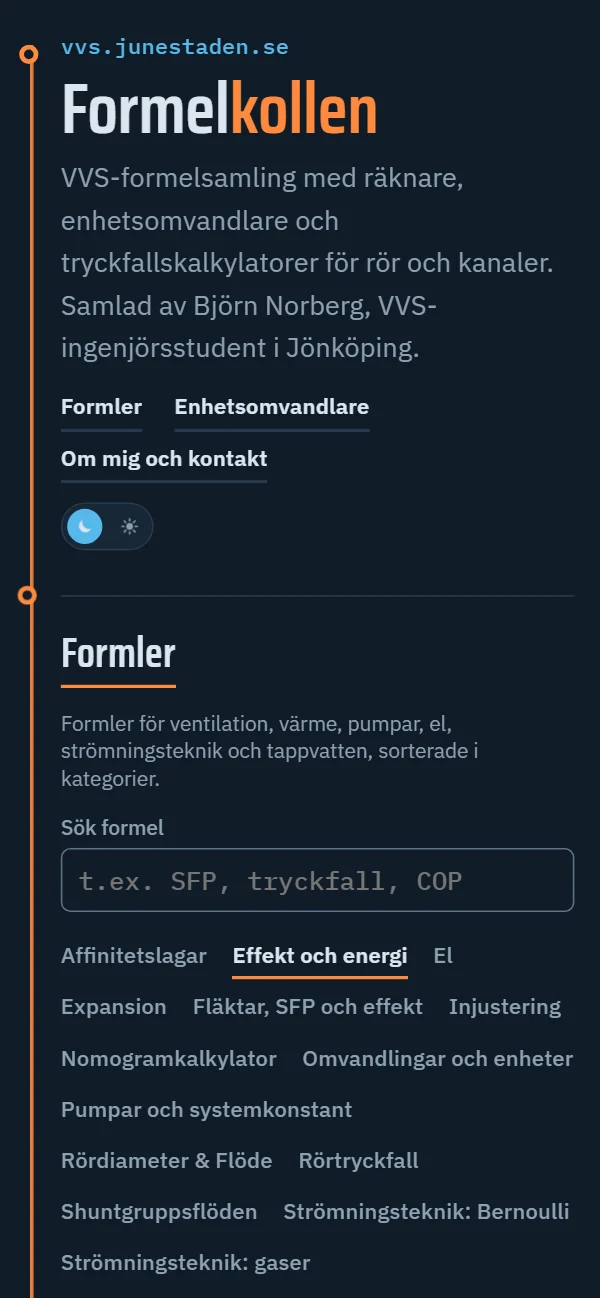
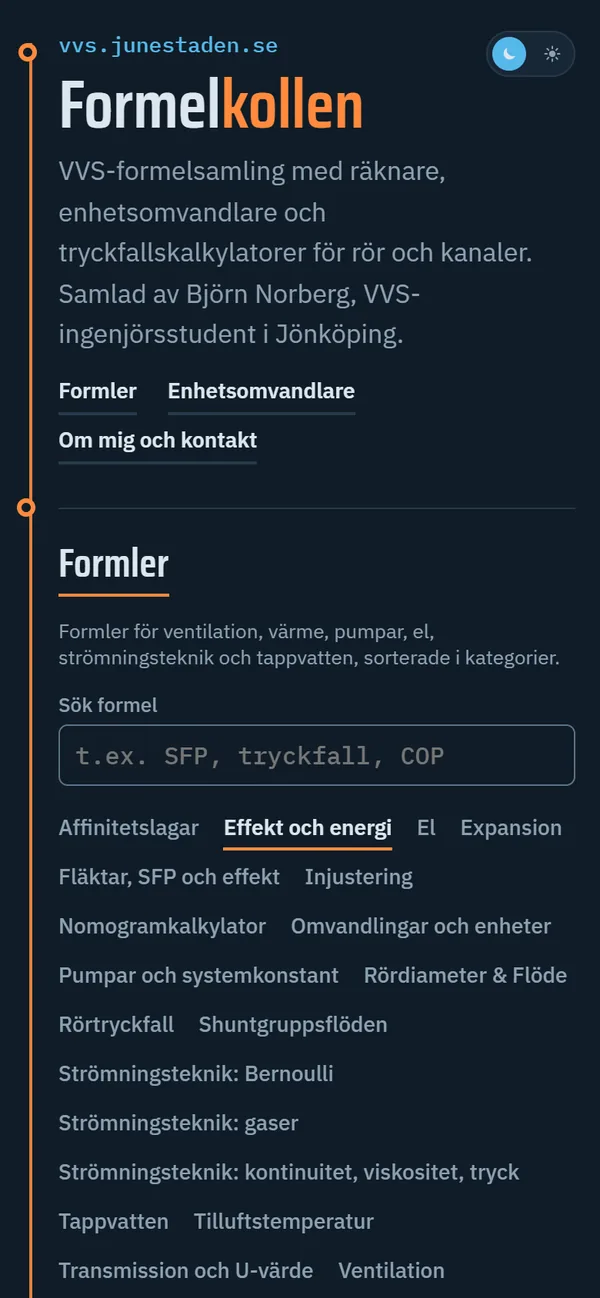
Bara mörkt läge, ny Formelkollen-bild och delningsbild

diff --git a/public/index.html b/public/index.html
@@ -18,7 +18,7 @@
 <meta property="og:url" content="https://junestaden.se/">
 <meta property="og:title" content="Junestaden – webbverktyg för bygg och vardag">
 <meta property="og:description" content="EPAkollen, Formelkollen och Mängdkollen – gratis webbverktyg för EPA-resor, VVS-formler och materialåtgång. Utan inloggning, i mobilen och på datorn.">
-<meta property="og:image" content="https://junestaden.se/img/og.jpg?v=3">
+<meta property="og:image" content="https://junestaden.se/img/og.jpg?v=4">
 <meta property="og:image:width" content="1200">
 <meta property="og:image:height" content="630">
 <meta name="twitter:card" content="summary_large_image">
@@ -105,20 +105,8 @@
   --shadow-hover: 0 2px 4px rgba(0,0,0,.4), 0 30px 60px -20px rgba(0,0,0,.8);
   --serif: "Instrument Serif", Georgia, serif;
   --sans: "Inter", system-ui, -apple-system, "Segoe UI", sans-serif;
+  /* Sidan är alltid mörk, oavsett systemets ljusa/mörka läge */
   color-scheme: dark;
-}
-@media (prefers-color-scheme: light) {
-  :root {
-    --bg: #f5f3ee;
-    --bg-2: #ebe8e1;
-    --line: #e2ded5;
-    --fg: #16181d;
-    --muted: #5e6470;
-    --frame: #1d222b;
-    --shadow: 0 1px 2px rgba(20,20,30,.06), 0 12px 32px -14px rgba(20,20,30,.18);
-    --shadow-hover: 0 2px 4px rgba(20,20,30,.06), 0 30px 60px -22px rgba(20,20,30,.32);
-    color-scheme: light;
-  }
 }
 
 * { box-sizing: border-box; }
